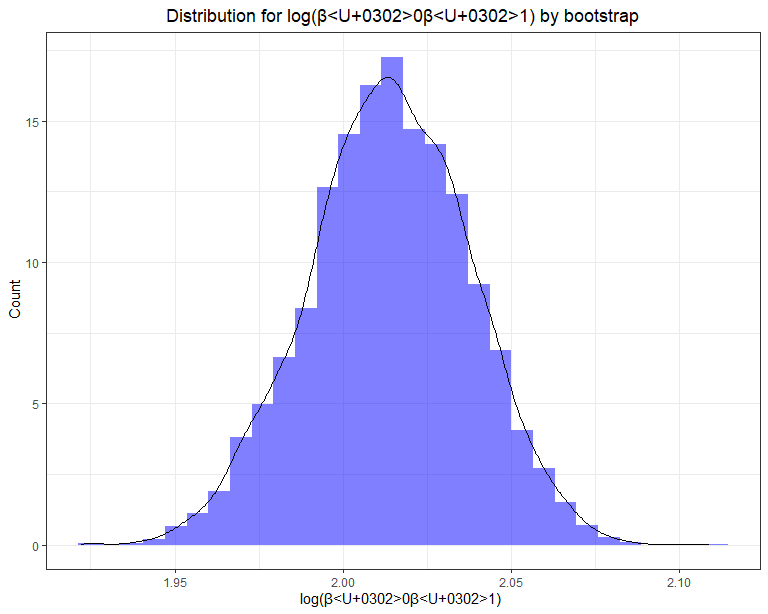
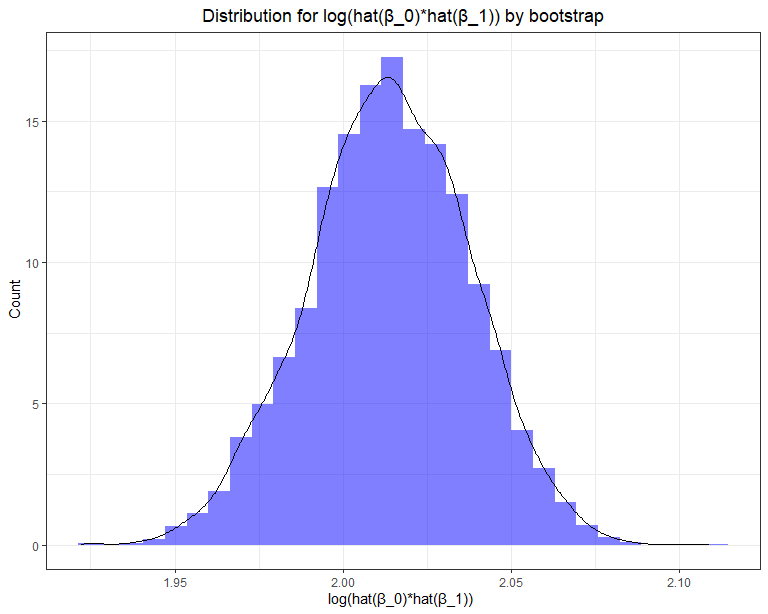
change the name of the term in bootstrap. final version

Changed region(s): [[0.2188, 0.0, 0.8438, 0.0619], [0.375, 0.9593, 0.6562, 0.9902]]

diff --git a/p8105_hw6_hy2669.md b/p8105_hw6_hy2669.md
@@ -349,7 +349,7 @@ bootstrap_df = weather_df %>%
   mutate(log_beta = log(beta_1 * beta_0)) 
 ```
 
-distribution of estimate of \(\hat{r^2}\)
+distribution of estimate of r^2
 
 ``` r
 rsquare_plot = bootstrap_df %>%
@@ -367,7 +367,14 @@ rsquare_plot
     ## `stat_bin()` using `bins = 30`. Pick better value with `binwidth`.
 
 <img src="p8105_hw6_hy2669_files/figure-gfm/unnamed-chunk-10-1.png" width="90%" />
-distribution of \(log(\hat{\beta_0}*\hat{\beta_1})\)
+
+In the plot of distribution, the estimate of r^2 nearly follows a normal
+distribution which means the results of bootstrap is close to ideal. and
+the mean of normal distribution is around 0.91 which means the
+performance of model is good (when r^2 is close to 1), so tmax can be
+well predicted by tmin in simple linear regression.
+
+distribution of log(hat(β\_0)\*hat(β\_1))
 
 ``` r
 logtrans_plot = bootstrap_df %>%
@@ -375,8 +382,8 @@ logtrans_plot = bootstrap_df %>%
   geom_histogram(fill = "blue", alpha = .5) +
   geom_density(aes( x = log_beta, y = ..density..)) +
   theme_bw() +
-  labs(title = "Distribution for log(β̂0β̂1) by bootstrap",
-       x = "log(β̂0β̂1) ",
+  labs(title = "Distribution for log(hat(β_0)*hat(β_1)) by bootstrap",
+       x = "log(hat(β_0)*hat(β_1)) ",
        y = " Count") +
   theme(plot.title = element_text(hjust = .5 ))
 logtrans_plot
@@ -385,11 +392,16 @@ logtrans_plot
     ## `stat_bin()` using `bins = 30`. Pick better value with `binwidth`.
 
 <img src="p8105_hw6_hy2669_files/figure-gfm/unnamed-chunk-11-1.png" width="90%" />
-95% CI for \(\hat{r^2}\)
+
+In the plot of distribution, the estimate of log(hat(β\_0)\*hat(β\_1))
+nearly follows a normal distribution which means the results of
+bootstrap is close to ideal.
+
+95% CI for r^2
 
 ``` r
 quantile(bootstrap_df$r.squared, probs = c(0.025,0.975)) %>% 
-  knitr::kable(caption = "95% CI for R_Square") # The 95% CI for r^2 is 0.893-0.926
+  knitr::kable() # The 95% CI for r^2 is 0.893-0.926
 ```
 
 |       |         x |
@@ -397,18 +409,14 @@ quantile(bootstrap_df$r.squared, probs = c(0.025,0.975)) %>%
 | 2.5%  | 0.8936817 |
 | 97.5% | 0.9268755 |
 
-95% CI for R\_Square
-
-95% CI for \(log(\hat{\beta_0}*\hat{\beta_1})\)
+95% CI for log(hat(β\_0)\*hat(β\_1))
 
 ``` r
 quantile(bootstrap_df$log_beta, probs = c(0.025,0.975)) %>% 
-  knitr::kable(caption = "95% CI for log(β̂0β̂1)") # The 95% CI for r^2 is 1.961-2.054
+  knitr::kable() # The 95% CI for log(hat(β_0)*hat(β_1)) is 1.961-2.054
 ```
 
 |       |        x |
 | :---- | -------: |
 | 2.5%  | 1.966319 |
 | 97.5% | 2.059657 |
-
-95% CI for log(β\<U+0302\>0β\<U+0302\>1)
